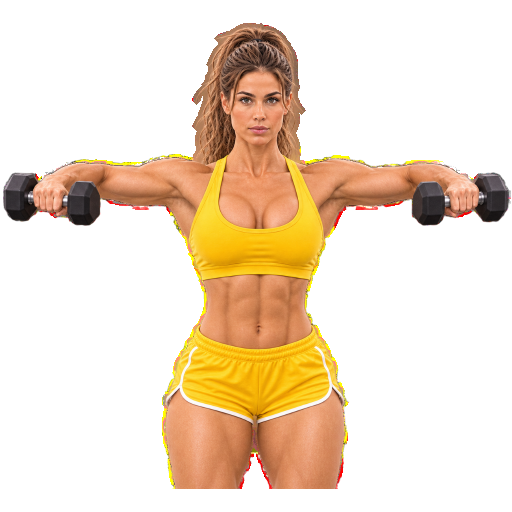
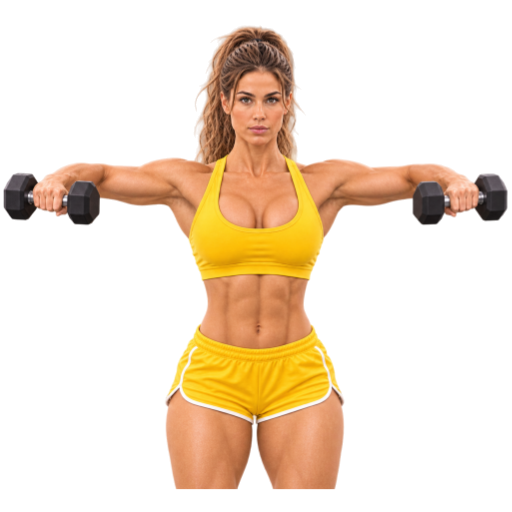
1.8.57 : 7 icônes refaites depuis les photos d'origine, sans liseré rouge et jaune
Claude-Session: https://claude.ai/code/session_01D2bERS9HLrYDfbmYJhTd1N

diff --git a/sw.js b/sw.js
@@ -4,7 +4,7 @@
 // APP_VERSION doit être incrémenté à chaque release (en même temps que
 // manifest.json) : le navigateur ne réinstalle le service worker que si
 // le contenu de ce fichier change.
-const APP_VERSION = '1.8.56';
+const APP_VERSION = '1.8.57';
 // 1.7.64 (co-auteur : Claude) : production (…/suivi-fitness/) et test (…/suivi-fitness/dev/) sont sur le même
 // domaine et partagent le stockage des caches : chaque version nomme ses caches d'après son dossier et ne
 // supprime que les siens (plus les anciens caches sans dossier, d'avant la 1.7.64).

diff --git a/CHANGELOG.md b/CHANGELOG.md
@@ -7,6 +7,13 @@ et ce projet respecte [Semantic Versioning](https://semver.org/spec/v2.0.0.html)
 
 ---
 
+## [1.8.57] - 2026-11-19
+### 🎨 Icônes : liseré rouge et jaune retiré sur 7 exercices (co-auteur : Claude)
+- Développé incliné haltères, Élévations latérales, Oiseau, Rowing unilatéral, Tirage vertical, Fentes et Extension triceps : refaites depuis les photos détourées d'origine en haute définition, calées sur le cadrage exact des icônes précédentes (points communs), réduites à 512 px. Le liseré de pixels rouges et jaunes purs laissé par le détourage automatique de la 1.8.42 disparaît.
+- Seuls le voile presque transparent du fond et l'ombre au sol sous le banc du Rowing unilatéral sont retirés.
+
+---
+
 ## [1.8.56] - 2026-11-19
 ### 🌓 « Déconnecter » et « Restaurer » : gris clair en clair, anthracite en sombre (co-auteur : Claude)
 - « Déconnecter » (Réglages › Sauvegarde Google Drive) et « Restaurer » (Historique) : gris clair d'avant (`fill`) en clair, anthracite #2E2E35 en sombre.
